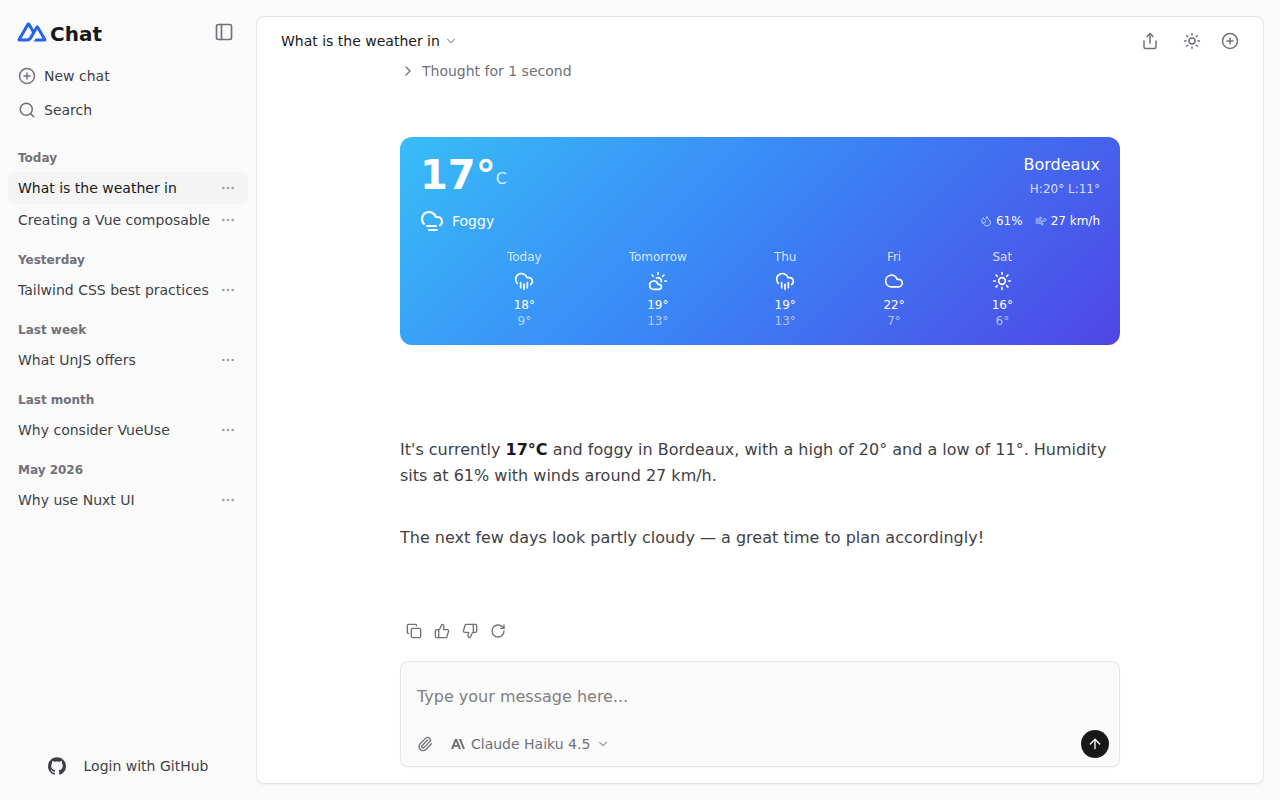
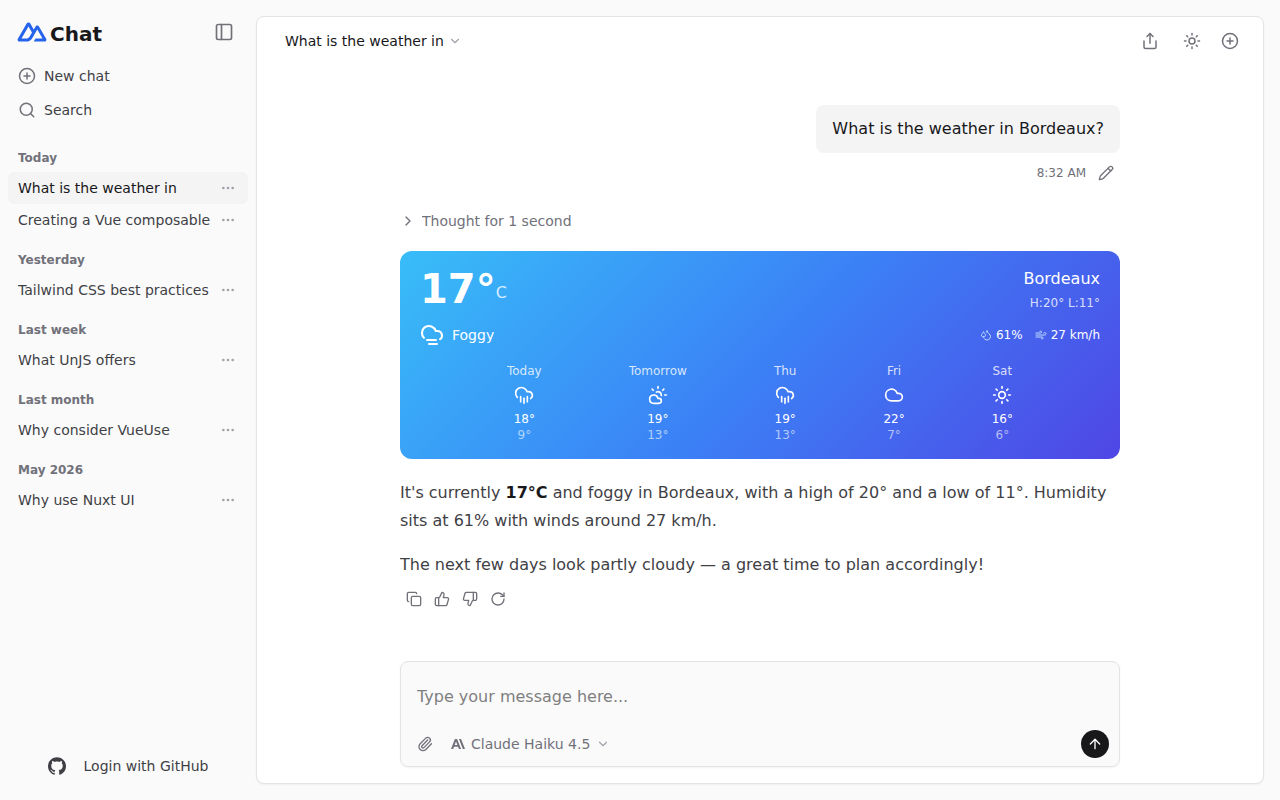
fix(ai-chat): correct markdown/message spacing on Lynx web
Vue v-if/v-else-if chains and v-for fragments leave zero-size placeholder
nodes as flex siblings; Lynx flex `gap` spaces around every child
(placeholders included), which multiplied the gap between markdown blocks
(72px before the first paragraph, 36px between blocks vs the intended
12-16px). Wrap each block/part in a single <view> and space with
margin-top keyed on the loop index instead of container gap. Bump prose
line-height to 28px to match the original.

Regenerated affected comparison screenshots + added a mobile composable
pair; documented as PORTING.md platform-learning #10.

Claude-Session: https://claude.ai/code/session_012YUTAS5bboT1AaGcdbrtNE

Changed region(s): [[0.3125, 0.1562, 0.875, 0.75], [0.2188, 0.0312, 0.4375, 0.0938], [0.3125, 0.7812, 0.375, 0.8125]]

diff --git a/examples/ai-chat/src/components/chat/MarkdownView.vue b/examples/ai-chat/src/components/chat/MarkdownView.vue
@@ -30,8 +30,20 @@ const HEADING_CLASSES: Record<number, string> = {
 </script>
 
 <template>
-  <view class="flex flex-col gap-3">
-    <template v-for="(block, bi) in blocks" :key="bi">
+  <!-- Each block gets a single <view> wrapper: Vue's v-if/v-else-if chains
+       leave zero-size placeholder nodes as siblings, and Lynx flex `gap`
+       adds space around EVERY child (placeholders included), which would
+       otherwise multiply the spacing between blocks. Keeping the chain
+       inside a per-block wrapper confines the placeholders. -->
+  <!-- Spacing via per-block margin-top (bi > 0), not container `gap`: Lynx
+       flex `gap` also spaces around the v-for fragment anchors (empty
+       zero-size text nodes), which would add a phantom gap at the top. -->
+  <view class="flex flex-col">
+    <view
+      v-for="(block, bi) in blocks"
+      :key="bi"
+      :style="bi > 0 ? { marginTop: '16px' } : undefined"
+    >
       <!-- paragraph / heading / quote share the inline renderer -->
       <text
         v-if="block.type === 'p' || block.type === 'heading'"
@@ -93,13 +105,13 @@ const HEADING_CLASSES: Record<number, string> = {
       </view>
 
       <view v-else-if="block.type === 'hr'" class="h-px bg-accented" />
-    </template>
+    </view>
   </view>
 </template>
 
 <style>
 .md-line {
-  line-height: 26px;
+  line-height: 28px;
 }
 .md-inline-code {
   background-color: var(--ui-bg-elevated);
@@ -115,7 +127,7 @@ const HEADING_CLASSES: Record<number, string> = {
   font-style: italic;
 }
 .md-marker {
-  line-height: 26px;
+  line-height: 28px;
 }
 .quote-bar {
   width: 3px;

diff --git a/examples/ai-chat/src/components/chat/message/MessageContent.vue b/examples/ai-chat/src/components/chat/message/MessageContent.vue
@@ -37,7 +37,11 @@ const fileParts = computed(() => props.message.parts.filter(isFileUIPart));
 </script>
 
 <template>
-  <view class="flex flex-col gap-3">
+  <!-- Spacing via margin-top, not container `gap`: Lynx flex `gap` also
+       spaces around v-for anchors and v-if placeholders (empty zero-size
+       nodes), inflating the gaps. Each part is wrapped in one <view> so its
+       internal v-if/v-else-if chain stays confined. -->
+  <view class="flex flex-col">
     <view v-if="fileParts.length" class="flex flex-row flex-wrap gap-2 justify-end">
       <FilePreview
         v-for="(file, fi) in fileParts"
@@ -49,7 +53,11 @@ const fileParts = computed(() => props.message.parts.filter(isFileUIPart));
       />
     </view>
 
-    <template v-for="(part, index) in merged" :key="`${message.id}-${part.type}-${index}`">
+    <view
+      v-for="(part, index) in merged"
+      :key="`${message.id}-${part.type}-${index}`"
+      :style="index > 0 || fileParts.length ? { marginTop: '12px' } : undefined"
+    >
       <ReasoningPart
         v-if="isReasoningUIPart(part)"
         :text="part.text"
@@ -82,9 +90,9 @@ const fileParts = computed(() => props.message.parts.filter(isFileUIPart));
           <text v-else class="text-base text-highlighted user-text">{{ part.text }}</text>
         </template>
       </template>
-    </template>
+    </view>
 
-    <view v-if="sources.length && message.role === 'assistant'" class="flex flex-row flex-wrap gap-1.5">
+    <view v-if="sources.length && message.role === 'assistant'" class="flex flex-row flex-wrap gap-1.5 mt-3">
       <SourceLink
         v-for="source in sources"
         :key="source.sourceId"

diff --git a/examples/ai-chat/PORTING.md b/examples/ai-chat/PORTING.md
@@ -75,5 +75,13 @@ Why a straight copy is impossible:
    re-created by reading the `SystemInfo` global (`pixelWidth / pixelRatio` = logical width —
    web-core populates it from `screen.availWidth * devicePixelRatio`) and branching the layout
    in code (`useViewport`). Detection is startup-only in this example.
-10. **`fetch` must be `globalThis.fetch`** — the web platform's runtime wrapper shadows the
+10. **Flex `gap` counts zero-size placeholder siblings.** Vue's `v-if`/`v-else-if` chains and
+    `v-for` fragments leave empty placeholder nodes (`<text>`/comment anchors) in the DOM. On
+    Lynx's web platform these are flex children, so a container's `gap` adds spacing around each
+    one — a markdown block list with 5-branch `v-if` chains between items ends up with 2-3× the
+    intended spacing. Fix: wrap each item in a single `<view>` (confining its internal chain)
+    and space with per-item `margin-top` keyed on the loop index (`bi > 0`), not container
+    `gap` (which would still space around the `v-for` anchors). See `MarkdownView.vue` /
+    `MessageContent.vue`.
+11. **`fetch` must be `globalThis.fetch`** — the web platform's runtime wrapper shadows the
    `fetch` binding with an undefined parameter (known repo convention, applies here too).

diff --git a/examples/ai-chat/screenshots/COMPARISON.md b/examples/ai-chat/screenshots/COMPARISON.md
@@ -20,6 +20,7 @@ Both columns captured at 1280×800.
 | Mobile home (390×844) | ![original mobile home](original/mobile-home.png) | ![lynx mobile home](lynx/mobile-home.png) |
 | Mobile sidebar drawer | ![original mobile drawer](original/mobile-drawer.png) | ![lynx mobile drawer](lynx/mobile-drawer.png) |
 | Mobile weather chat | ![original mobile weather](original/mobile-weather.png) | ![lynx mobile weather](lynx/mobile-weather.png) |
+| Mobile markdown (composable) | ![original composable](original/composable-mobile.png) | ![lynx composable](lynx/composable-mobile.png) |
 
 ## Reading the pairs
 
@@ -72,3 +73,11 @@ the port branches on `SystemInfo.pixelWidth / pixelRatio` at startup: same full-
 hamburger in the navbar, slide-over drawer (with close button and content dim), stacked
 quick-chat pills, and tighter paddings. The drawer state in the original screenshot shows an
 empty history because the live demo session was fresh.
+
+**Mobile markdown (composable)** — reasoning row, streamed prose, and a highlighted code block.
+The vertical rhythm matches the original's prose spacing (28px line-height, ~16px between
+blocks). Getting here required a Lynx-specific fix: Vue's `v-if`/`v-else-if` chains and
+`v-for` fragments leave zero-size placeholder nodes as siblings, and Lynx flex `gap` adds space
+around *every* child — placeholders included — which multiplied the spacing between markdown
+blocks. The renderer now wraps each block/part in a single `<view>` and spaces with
+`margin-top` instead of container `gap` (see PORTING.md "Platform learnings" #11).